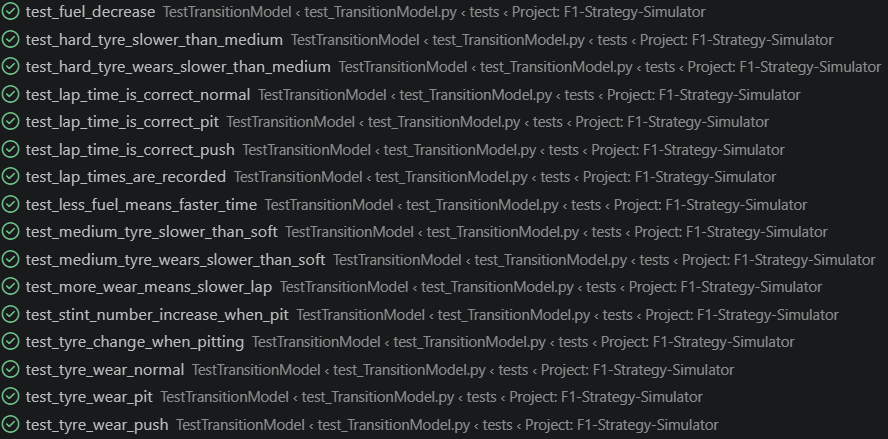
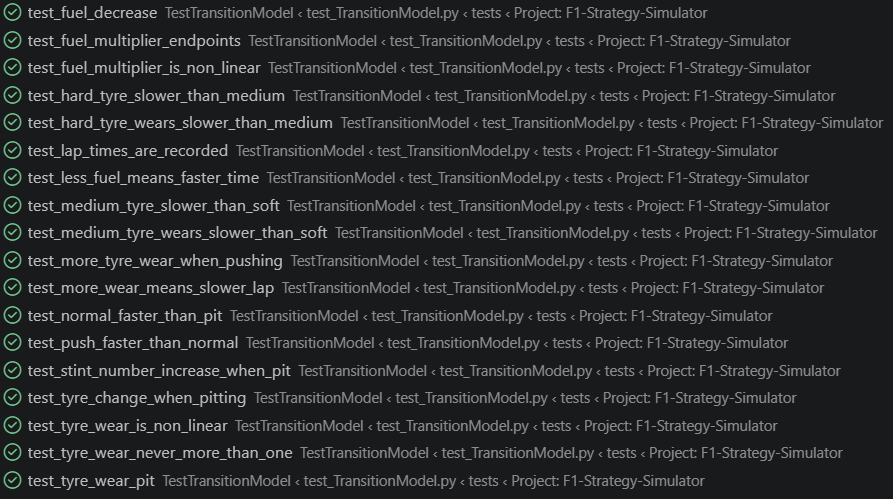
Added non-linear tyre wear, tested and documented

Changed region(s): [[0.0, 0.0, 1.0, 1.0]]

diff --git a/tests/test_TransitionModel.py b/tests/test_TransitionModel.py
@@ -9,13 +9,13 @@ class TestTransitionModel(unittest.TestCase):
     def setUp(self):
         self.test_state = RaceState(1, 50, SOFT, 0, 100, [], [(1, MEDIUM)], 1)
 
-    def test_tyre_wear_normal(self):
+    def test_more_tyre_wear_when_pushing(self):
         tyre_wear(self.test_state, Action.NORMAL)
-        self.assertEqual(self.test_state.tyre_wear, 0.035)
-
-    def test_tyre_wear_push(self):
+        normal_wear = self.test_state.tyre_wear
+        self.setUp()
         tyre_wear(self.test_state, Action.PUSH)
-        self.assertEqual(self.test_state.tyre_wear, 0.07)
+        push_wear = self.test_state.tyre_wear
+        self.assertLess(normal_wear, push_wear)
 
     def test_tyre_wear_pit(self):
         self.test_state.tyre_wear = 0.8
@@ -23,17 +23,21 @@ class TestTransitionModel(unittest.TestCase):
         self.assertEqual(self.test_state.tyre_wear, 0)
 
     def test_fuel_decrease(self):
+        original_fuel = self.test_state.fuel_load
         decrease_fuel(self.test_state)
-        self.assertEqual(self.test_state.fuel_load, 98)
+        self.assertLess(self.test_state.fuel_load, original_fuel)
 
-    def test_lap_time_is_correct_normal(self):
-        self.assertEqual(apply_action(self.test_state, Action.NORMAL), 93.03975)
-        
-    def test_lap_time_is_correct_push(self):
-        self.assertEqual(apply_action(self.test_state, Action.PUSH), 92.1395)
+    def test_push_faster_than_normal(self):
+        normal_lap = apply_action(self.test_state, Action.NORMAL)
+        self.setUp()
+        push_lap = apply_action(self.test_state, Action.PUSH)
+        self.assertLess(push_lap, normal_lap)
 
-    def test_lap_time_is_correct_pit(self):
-        self.assertEqual(apply_action(self.test_state, Action.PIT), 116.03975)
+    def test_normal_faster_than_pit(self):
+        normal_lap = apply_action(self.test_state, Action.NORMAL)
+        self.setUp()
+        pit_lap = apply_action(self.test_state, Action.PIT)
+        self.assertLess(normal_lap, pit_lap)
 
     def test_more_wear_means_slower_lap(self):
         for action in [Action.NORMAL, Action.PUSH]:
@@ -52,7 +56,6 @@ class TestTransitionModel(unittest.TestCase):
             self.test_state.fuel_load = 25
             second_lap = apply_action(self.test_state, action)
             self.assertGreater(first_lap, second_lap)
-
 
     def test_lap_times_are_recorded(self):
         for _ in range(5):
@@ -100,3 +103,27 @@ class TestTransitionModel(unittest.TestCase):
     def test_tyre_change_when_pitting(self):
         apply_action(self.test_state, Action.PIT)
         self.assertEqual(self.test_state.tyre_compound, MEDIUM)
+
+    def test_tyre_wear_never_more_than_one(self):
+        self.test_state.tyre_wear = 0.999999
+        tyre_wear(self.test_state, Action.PUSH)
+        self.assertEqual(self.test_state.tyre_wear, 1)
+        self.test_state.tyre_wear = 0.999999
+        tyre_wear(self.test_state, Action.NORMAL)
+        self.assertEqual(self.test_state.tyre_wear, 1)
+
+    def test_fuel_multiplier_endpoints(self):
+        self.assertEqual(0.9 * (11/9)**(self.test_state.fuel_load/100), 1.1)
+        self.test_state.fuel_load = 0
+        self.assertEqual(0.9 * (11/9)**(self.test_state.fuel_load/100), 0.9)
+
+    def test_fuel_multiplier_is_non_linear(self):
+        self.assertNotEqual((0.9 * (11/9)**(100/100)) - (0.9 * (11/9)**(98/100)), (0.9 * (11/9)**(99/100)) - (0.9 * (11/9)**(96/100)))
+
+    def test_tyre_wear_is_non_linear(self):
+        wear1 = self.test_state.tyre_wear
+        tyre_wear(self.test_state, Action.NORMAL)
+        wear2 = self.test_state.tyre_wear
+        tyre_wear(self.test_state, Action.NORMAL)
+        wear3 = self.test_state.tyre_wear
+        self.assertNotEqual(wear2 - wear1, wear3 - wear2)

diff --git a/src/TyreCompounds.py b/src/TyreCompounds.py
@@ -1,11 +1,18 @@
 class TyreCompound:
-    def __init__(self, name, lap_time_multiplier, wear_rate):
+    def __init__(self, name, lap_time_multiplier, wear_rate, curve_rate):
         self.name = name
         self.lap_time_multiplier = lap_time_multiplier
         self.wear_rate = wear_rate
+        self.curve_rate = curve_rate
+
+    def calculate_wear_multiplier(self, current_wear, current_fuel):
+        fuel_multiplier = 0.9 * (11/9)**(current_fuel/100)
+        tyre_multiplier = self.curve_rate**current_wear
+        wear_multiplier = fuel_multiplier * tyre_multiplier
+        return wear_multiplier
 
     
 
-SOFT = TyreCompound("Soft", lap_time_multiplier=1.0, wear_rate=0.035)
-MEDIUM = TyreCompound("Medium", lap_time_multiplier=1.004, wear_rate=0.024)
-HARD = TyreCompound("Hard", lap_time_multiplier=1.01, wear_rate=0.018)
+SOFT = TyreCompound("Soft", lap_time_multiplier=1.002, wear_rate=0.035, curve_rate = 3)
+MEDIUM = TyreCompound("Medium", lap_time_multiplier=1.004, wear_rate=0.024, curve_rate = 2.2)
+HARD = TyreCompound("Hard", lap_time_multiplier=1.01, wear_rate=0.018, curve_rate = 1.7)

diff --git a/src/TransitionModel.py b/src/TransitionModel.py
@@ -5,10 +5,13 @@ def tyre_wear(race_state, action):
     wear_rate = race_state.tyre_compound.wear_rate
     PUSH_MULTIPLIER = 2
     if action == Action.PUSH:
-        race_state.tyre_wear += wear_rate * PUSH_MULTIPLIER
+        race_state.tyre_wear += wear_rate * race_state.tyre_compound.calculate_wear_multiplier(race_state.tyre_wear, race_state.fuel_load) * PUSH_MULTIPLIER
     else:
-        race_state.tyre_wear += wear_rate
-    race_state.tyre_wear = round(race_state.tyre_wear, 7)
+        race_state.tyre_wear += wear_rate * race_state.tyre_compound.calculate_wear_multiplier(race_state.tyre_wear, race_state.fuel_load)
+    if race_state.tyre_wear <= 1:
+        race_state.tyre_wear = round(race_state.tyre_wear, 7)
+    else:
+        race_state.tyre_wear = 1
 
 def decrease_fuel(race_state):
     FUEL_RATE = 100 / race_state.total_laps

diff --git a/main.py b/main.py
@@ -4,7 +4,7 @@ from src.TimeFormatter import format_secs
 if __name__ == "__main__":
     total_time, start_tyres, race_state = find_best_strategy(total_laps=50)
     pit_strategy = race_state.pit_stops
-    print(f"Best strategy: {len(pit_strategy)} stop strategy\nStart on {start_tyres.name} tyres\nPit on lap {pit_strategy[0][0]} for {pit_strategy[0][1].name} tyres")
+    print(f"\nBest strategy: {len(pit_strategy)} stop strategy\nStart on {start_tyres.name} tyres\nPit on lap {pit_strategy[0][0]} for {pit_strategy[0][1].name} tyres")
     if len(pit_strategy) >= 2:
         print(f"Pit on lap {pit_strategy[1][0]} for {pit_strategy[1][1].name} tyres")
     if len(pit_strategy) == 3:

diff --git a/src/StrategySearch.py b/src/StrategySearch.py
@@ -25,7 +25,9 @@ def generate_strategies():
 def find_best_strategy(total_laps=50):
     race_info = []
     strategies = generate_strategies()
+    # strategies = [[]]
     for i, strategy in enumerate(strategies):
+        print(f"On strategy {i+1} out of {len(strategies)}")
         # one stop
         if len(strategy) == 2:
             for pit_lap in range(1, total_laps):

diff --git a/README.md b/README.md
@@ -14,7 +14,7 @@ The core of this project is a Markov Decision Process and value iteration, to fi
 * Database usage
 * Using real world data
 
-## Strategy Search
+## The Strategy Search
 
 The first prototype of the strategy search could only consider one-stop strategies, and only one compound of tyre.
 Now, the strategy search engine can find the optimal one, two or three stop strategy, and considers soft, medium and hard tyres, with different stats.
@@ -24,9 +24,10 @@ It brute force tests every possible strategy (tyre combinations, and pit laps), 
 
 I plan to build this in an agile manner, producing multiple prototypes from the ground up. 
 The first prototype is simply be a brute force search, a one-stop strategy, linear models, and no regard to tyre compounds.
-Further prototypes will use better models, calculate when to push or conserve fuel and tyres, have multiple stops with different tyre compounds, and use MDPs as the main strategy search engine.
+The second incorporates logic for multi-stop strategies and multiple tyre compounds.
+Further prototypes will use better models, calculate when to push or conserve fuel and tyres, and use MDPs as the main strategy search engine.
 
-**Current Status: Completed second prototype**
+**Current Status: Improving tyre and fuel models**
 
 ## Testing
 

diff --git a/docs/design_overview.md b/docs/design_overview.md
@@ -46,3 +46,15 @@
 * It returns a tuple containing the best full race time, the starting tyre for the optimal strategy, and the full race state (containing lap time history and details of pit stops)
 * It works by generating all possible tyre strategies, then simulating a full racw with every pit lap combination on every tyre strategy
 * This tuple is formatted and printed by main.py
+
+## Mathematical modelling
+
+### Tyre wear models
+* The first model for tyre wear was linear, increasing by the same amount each lap
+* The improved tyre wear model uses compound-specific exponential curves
+* Each compound has a base wear amount, a lap-time multiplier, and a set curve steepness
+* The tyre compound class has a function `calculate_wear_multiplier()`
+* This function uses the current tyre wear, and current fuel load, to output a tyre wear multiplier
+* Tyre wear is modelled exponentially based on existing tyre wear. It is then multiplied with a fuel multiplier, which is also created through an exponential curve
+* These multipliers are then also multiplied with a set multiplier if the car is in push mode
+* This simulates tyre 'cliffs' the effect of heavy fuel increasing tyre wear, and further distinguishes between the different compounds, increasing the realism of the simulator
